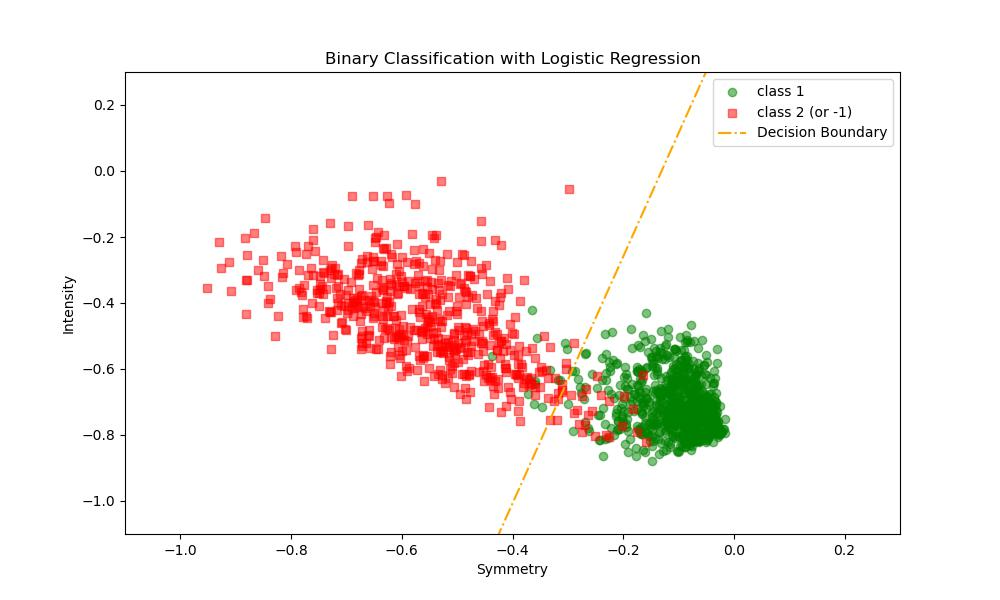
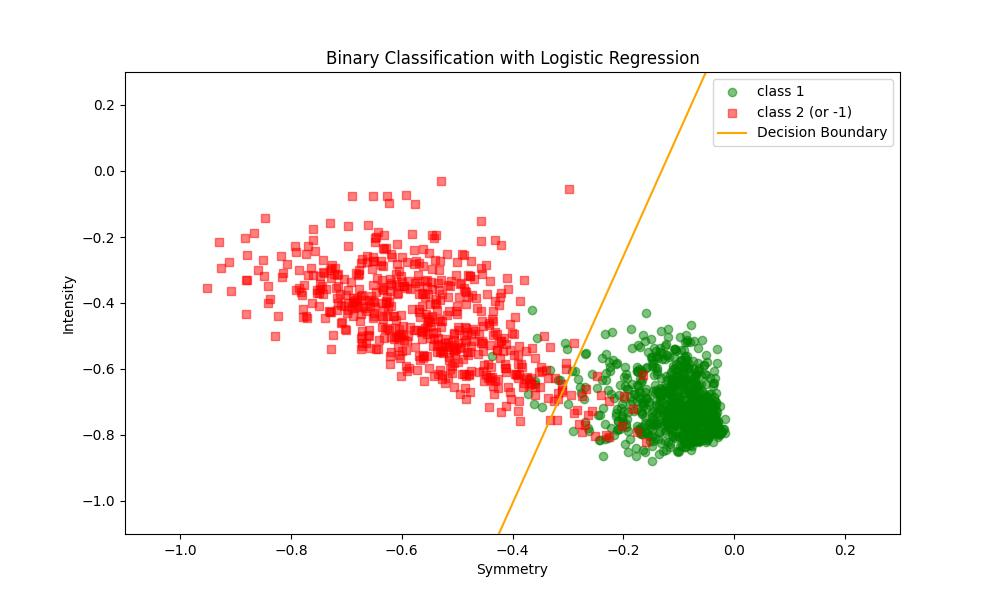
finished

Changed region(s): [[0.31, 0.09, 0.713, 0.12], [0.837, 0.9, 0.868, 0.93]]

diff --git a/HW1/code/main.py b/HW1/code/main.py
@@ -53,7 +53,7 @@ def visualize_result(X, y, W):
     plt.figure(figsize=(10, 6))
     plt.scatter(X[y ==  1, 0], X[y ==  1, 1], c='green', marker='o', label='class 1', alpha=0.5)
     plt.scatter(X[y == -1, 0], X[y == -1, 1], c='red',   marker='s', label='class 2 (or -1)', alpha=0.5)
-    plt.plot(xs, ys, c='orange', label='Decision Boundary', linestyle='-.')
+    plt.plot(xs, ys, c='orange', label='Decision Boundary')
     plt.title('Binary Classification with Logistic Regression')
     plt.xlim([-1.1, 0.3])
     plt.ylim([-1.1, 0.3])
@@ -231,7 +231,7 @@ def main():
     # Explore different hyper-parameters.
     ### YOUR CODE HERE
     print("----------------- BEGIN: Best Multi LR parameters, train, and valid accuracy -----------------")
-    best_logistic_multi_R = logistic_regression_multiclass(learning_rate=1e-2, max_iter=1000, k=3)
+    best_logistic_multi_R = logistic_regression_multiclass(learning_rate=1e-2, max_iter=100, k=3)
     best_logistic_multi_R.fit_miniBGD(train_X, train_y, 5)
     print(best_logistic_multi_R.get_params())
     print(best_logistic_multi_R.score(train_X, train_y))
